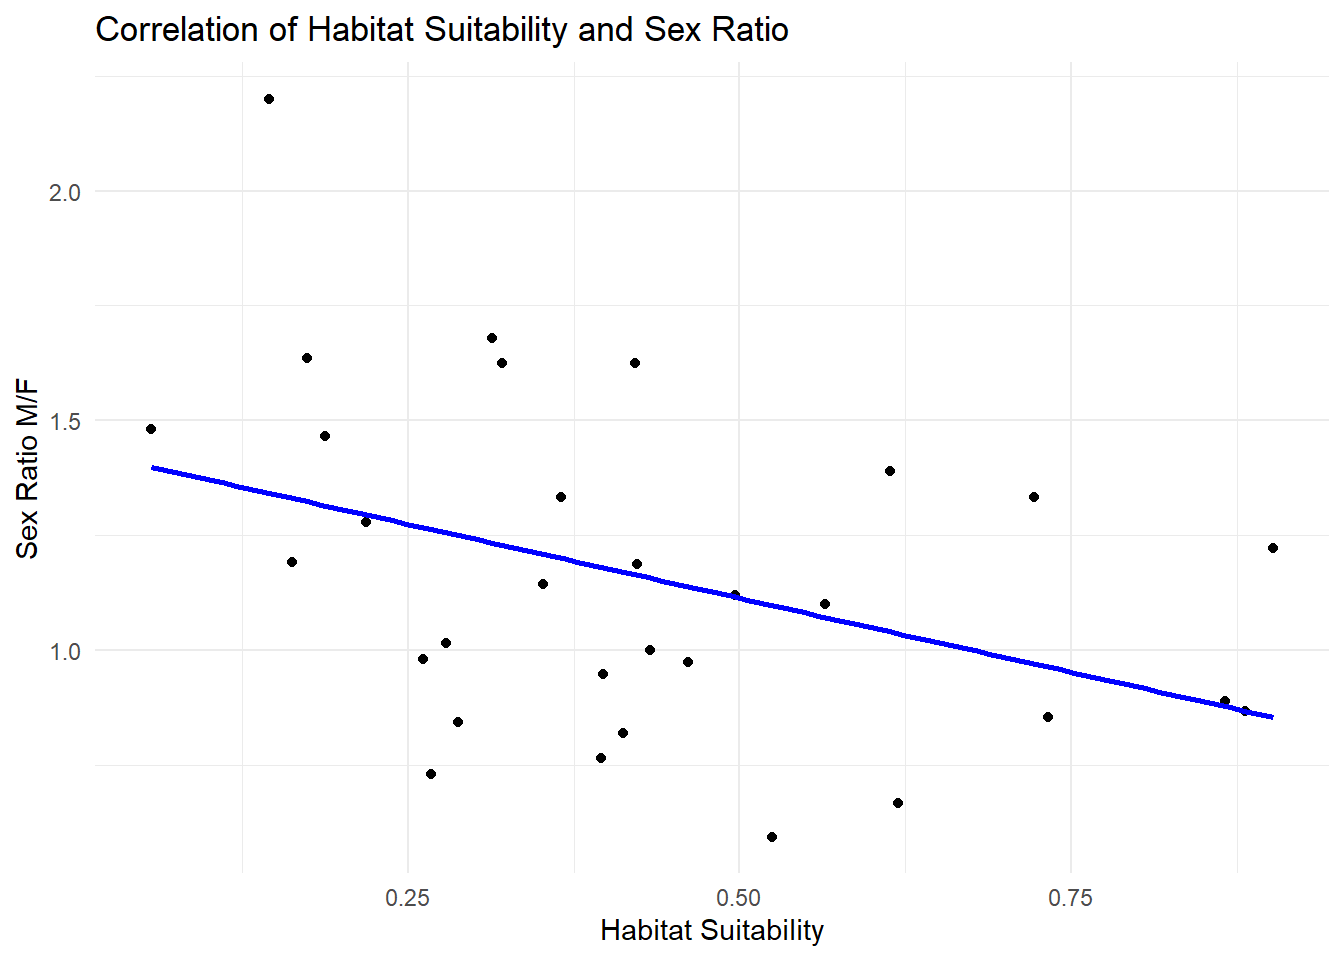
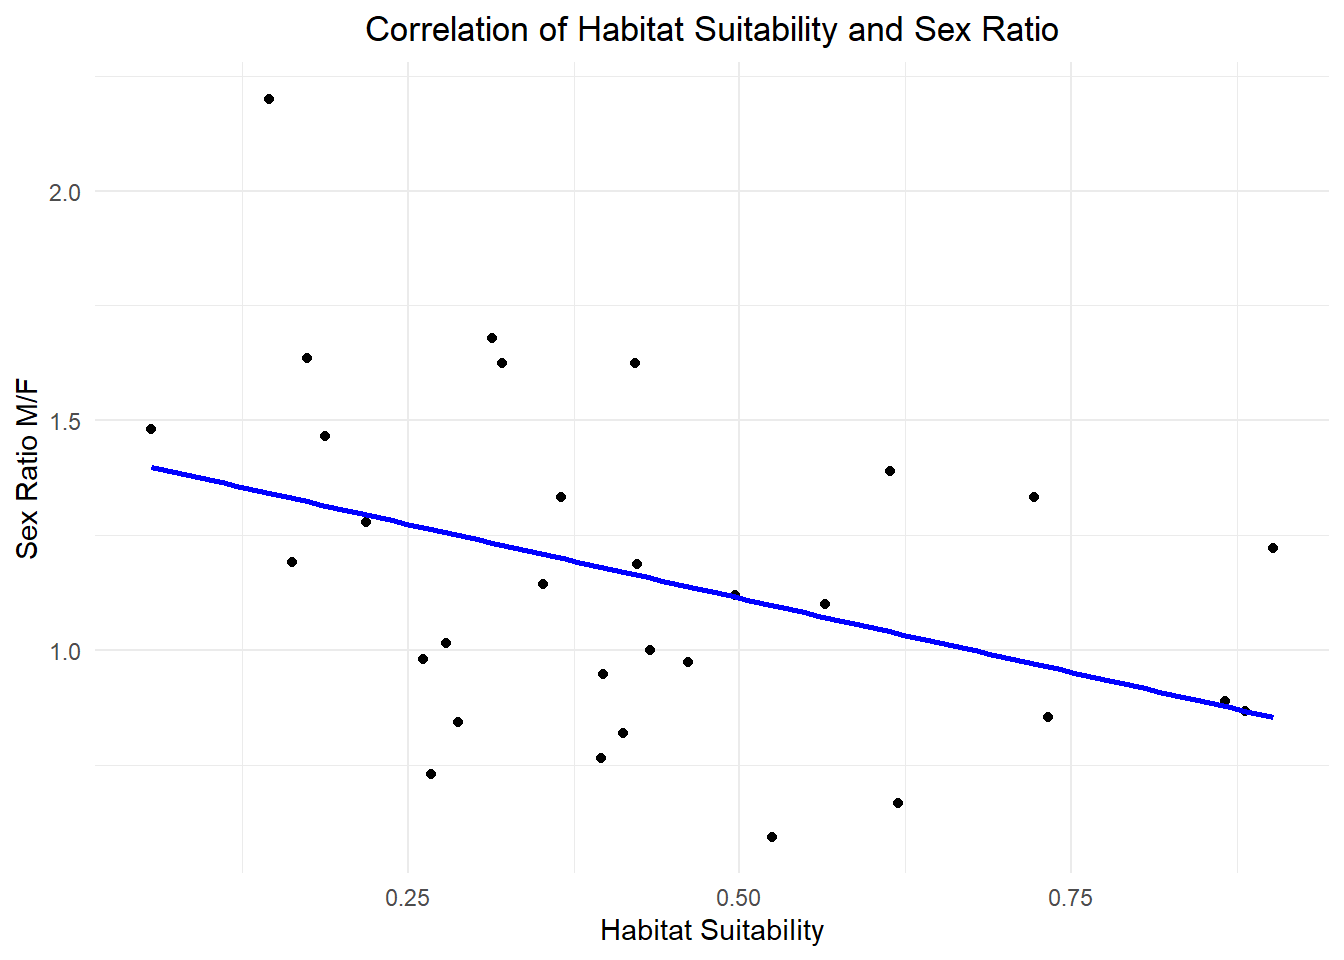
fixed

Changed region(s): [[0.0625, 0.0, 0.7812, 0.0625]]

diff --git a/docs/Markdown/SpatialPointsAssignment.html b/docs/Markdown/SpatialPointsAssignment.html
@@ -229,8 +229,8 @@ dbl (8): Males, Females, Suitability, MFRatio, GenVarArapat, GenVarEuphli, L...
 <span id="cb5-7"><a href="#cb5-7" aria-hidden="true" tabindex="-1"></a>  <span class="fu">addMarkers</span>( <span class="sc">~</span>Longitude, <span class="sc">~</span>Latitude, <span class="at">popup =</span> <span class="sc">~</span>Label ) <span class="sc">%&gt;%</span></span>
 <span id="cb5-8"><a href="#cb5-8" aria-hidden="true" tabindex="-1"></a>  <span class="fu">addProviderTiles</span>( <span class="st">"OpenTopoMap"</span> )</span></code><button title="Copy to Clipboard" class="code-copy-button"><i class="bi"></i></button></pre></div>
 <div class="cell-output-display">
-<div class="leaflet html-widget html-fill-item" id="htmlwidget-3cea015dfb251a80ebad" style="width:100%;height:464px;"></div>
-<script type="application/json" data-for="htmlwidget-3cea015dfb251a80ebad">{"x":{"options":{"crs":{"crsClass":"L.CRS.EPSG3857","code":null,"proj4def":null,"projectedBounds":null,"options":{}}},"calls":[{"method":"addMarkers","args":[[23.2855,24.00789,24.0195,24.13389,24.2115,24.21441,24.58843,24.87611,25.0247,25.34819,25.55757,25.60521,25.91409,26.0155,26.20876,26.63783,26.94589,27.0367,27.18232,27.2028,27.3632,27.40498,27.52944,28.03661,28.22308,28.40846,28.66056,28.72796,28.96651,29.01457,29.32541],[-110.10429,-109.85071,-110.096,-110.46236,-110.951,-110.27252,-110.74599,-110.69175,-111.675,-111.60056,-111.21563,-111.32638,-112.08062,-111.35475,-111.37833,-109.327,-112.04613,-112.986,-112.66552,-112.408,-112.964,-112.52959,-113.31609,-113.39991,-113.18263,-112.86985,-113.99141,-113.48973,-113.66787,-113.94486,-114.29353],null,null,null,{"interactive":true,"draggable":false,"keyboard":true,"title":"","alt":"","zIndexOffset":0,"opacity":1,"riseOnHover":false,"riseOffset":250},["<b>Site: Aqu","<b>Site: 73","<b>Site: 157","<b>Site: 153","<b>Site: 163","<b>Site: 48","<b>Site: 75","<b>Site: 77","<b>Site: const","<b>Site: 51","<b>Site: 168","<b>Site: 64","<b>Site: 166","<b>Site: 58","<b>Site: 169","<b>Site: 32","<b>Site: 93","<b>Site: 161","<b>Site: 12","<b>Site: 162","<b>Site: sfran","<b>Site: 160","<b>Site: 159","<b>Site: 89","<b>Site: 171","<b>Site: 173","<b>Site: 177","<b>Site: 175","<b>Site: 84","<b>Site: 9","<b>Site: 88"],null,null,null,null,{"interactive":false,"permanent":false,"direction":"auto","opacity":1,"offset":[0,0],"textsize":"10px","textOnly":false,"className":"","sticky":true},null]},{"method":"addProviderTiles","args":["OpenTopoMap",null,null,{"errorTileUrl":"","noWrap":false,"detectRetina":false}]}],"limits":{"lat":[23.2855,29.32541],"lng":[-114.29353,-109.327]}},"evals":[],"jsHooks":[]}</script>
+<div class="leaflet html-widget html-fill-item" id="htmlwidget-c5eca582b8e64137954f" style="width:100%;height:464px;"></div>
+<script type="application/json" data-for="htmlwidget-c5eca582b8e64137954f">{"x":{"options":{"crs":{"crsClass":"L.CRS.EPSG3857","code":null,"proj4def":null,"projectedBounds":null,"options":{}}},"calls":[{"method":"addMarkers","args":[[23.2855,24.00789,24.0195,24.13389,24.2115,24.21441,24.58843,24.87611,25.0247,25.34819,25.55757,25.60521,25.91409,26.0155,26.20876,26.63783,26.94589,27.0367,27.18232,27.2028,27.3632,27.40498,27.52944,28.03661,28.22308,28.40846,28.66056,28.72796,28.96651,29.01457,29.32541],[-110.10429,-109.85071,-110.096,-110.46236,-110.951,-110.27252,-110.74599,-110.69175,-111.675,-111.60056,-111.21563,-111.32638,-112.08062,-111.35475,-111.37833,-109.327,-112.04613,-112.986,-112.66552,-112.408,-112.964,-112.52959,-113.31609,-113.39991,-113.18263,-112.86985,-113.99141,-113.48973,-113.66787,-113.94486,-114.29353],null,null,null,{"interactive":true,"draggable":false,"keyboard":true,"title":"","alt":"","zIndexOffset":0,"opacity":1,"riseOnHover":false,"riseOffset":250},["<b>Site: Aqu","<b>Site: 73","<b>Site: 157","<b>Site: 153","<b>Site: 163","<b>Site: 48","<b>Site: 75","<b>Site: 77","<b>Site: const","<b>Site: 51","<b>Site: 168","<b>Site: 64","<b>Site: 166","<b>Site: 58","<b>Site: 169","<b>Site: 32","<b>Site: 93","<b>Site: 161","<b>Site: 12","<b>Site: 162","<b>Site: sfran","<b>Site: 160","<b>Site: 159","<b>Site: 89","<b>Site: 171","<b>Site: 173","<b>Site: 177","<b>Site: 175","<b>Site: 84","<b>Site: 9","<b>Site: 88"],null,null,null,null,{"interactive":false,"permanent":false,"direction":"auto","opacity":1,"offset":[0,0],"textsize":"10px","textOnly":false,"className":"","sticky":true},null]},{"method":"addProviderTiles","args":["OpenTopoMap",null,null,{"errorTileUrl":"","noWrap":false,"detectRetina":false}]}],"limits":{"lat":[23.2855,29.32541],"lng":[-114.29353,-109.327]}},"evals":[],"jsHooks":[]}</script>
 </div>
 </div>
 </section>
@@ -299,7 +299,8 @@ Geodetic CRS:  WGS 84
 <span id="cb12-8"><a href="#cb12-8" aria-hidden="true" tabindex="-1"></a>  <span class="fu">labs</span>( <span class="at">title =</span> <span class="st">"Correlation of Habitat Suitability and Sex Ratio"</span>,</span>
 <span id="cb12-9"><a href="#cb12-9" aria-hidden="true" tabindex="-1"></a>        <span class="at">x =</span> <span class="st">"Habitat Suitability"</span>,</span>
 <span id="cb12-10"><a href="#cb12-10" aria-hidden="true" tabindex="-1"></a>        <span class="at">y =</span> <span class="st">"Sex Ratio M/F"</span> ) <span class="sc">+</span></span>
-<span id="cb12-11"><a href="#cb12-11" aria-hidden="true" tabindex="-1"></a>  <span class="fu">theme_minimal</span>()</span></code><button title="Copy to Clipboard" class="code-copy-button"><i class="bi"></i></button></pre></div>
+<span id="cb12-11"><a href="#cb12-11" aria-hidden="true" tabindex="-1"></a>  <span class="fu">theme_minimal</span>() <span class="sc">+</span></span>
+<span id="cb12-12"><a href="#cb12-12" aria-hidden="true" tabindex="-1"></a>  <span class="fu">theme</span>( <span class="at">plot.title =</span> <span class="fu">element_text</span>( <span class="at">hjust =</span> <span class="fl">0.5</span> ) )</span></code><button title="Copy to Clipboard" class="code-copy-button"><i class="bi"></i></button></pre></div>
 <div class="cell-output cell-output-stderr">
 <pre><code>`geom_smooth()` using formula = 'y ~ x'</code></pre>
 </div>
@@ -310,36 +311,16 @@ Geodetic CRS:  WGS 84
 </figure>
 </div>
 </div>
-<div class="sourceCode cell-code" id="cb14"><pre class="sourceCode r code-with-copy"><code class="sourceCode r"><span id="cb14-1"><a href="#cb14-1" aria-hidden="true" tabindex="-1"></a>  <span class="fu">theme</span>( <span class="at">plot.title =</span> <span class="fu">element_text</span>( <span class="at">hjust =</span> <span class="fl">0.5</span> ) )</span></code><button title="Copy to Clipboard" class="code-copy-button"><i class="bi"></i></button></pre></div>
-<div class="cell-output cell-output-stdout">
-<pre><code>List of 1
- $ plot.title:List of 11
-  ..$ family       : NULL
-  ..$ face         : NULL
-  ..$ colour       : NULL
-  ..$ size         : NULL
-  ..$ hjust        : num 0.5
-  ..$ vjust        : NULL
-  ..$ angle        : NULL
-  ..$ lineheight   : NULL
-  ..$ margin       : NULL
-  ..$ debug        : NULL
-  ..$ inherit.blank: logi FALSE
-  ..- attr(*, "class")= chr [1:2] "element_text" "element"
- - attr(*, "class")= chr [1:2] "theme" "gg"
- - attr(*, "complete")= logi FALSE
- - attr(*, "validate")= logi TRUE</code></pre>
-</div>
 </div>
 <ol start="3" type="1">
 <li>Make a plot using <code>ggplot</code> of the data with suitability as the size of the points and the sex ratio as the fill color.</li>
 </ol>
 <div class="cell">
-<div class="sourceCode cell-code" id="cb16"><pre class="sourceCode r code-with-copy"><code class="sourceCode r"><span id="cb16-1"><a href="#cb16-1" aria-hidden="true" tabindex="-1"></a><span class="fu">library</span>(sf)</span>
-<span id="cb16-2"><a href="#cb16-2" aria-hidden="true" tabindex="-1"></a></span>
-<span id="cb16-3"><a href="#cb16-3" aria-hidden="true" tabindex="-1"></a><span class="fu">map_data</span>( <span class="st">"world"</span> ) <span class="sc">%&gt;%</span></span>
-<span id="cb16-4"><a href="#cb16-4" aria-hidden="true" tabindex="-1"></a>  <span class="fu">filter</span>( region <span class="sc">==</span> <span class="st">"Mexico"</span> ) <span class="ot">-&gt;</span> map</span>
-<span id="cb16-5"><a href="#cb16-5" aria-hidden="true" tabindex="-1"></a><span class="fu">head</span>( map )</span></code><button title="Copy to Clipboard" class="code-copy-button"><i class="bi"></i></button></pre></div>
+<div class="sourceCode cell-code" id="cb14"><pre class="sourceCode r code-with-copy"><code class="sourceCode r"><span id="cb14-1"><a href="#cb14-1" aria-hidden="true" tabindex="-1"></a><span class="fu">library</span>(sf)</span>
+<span id="cb14-2"><a href="#cb14-2" aria-hidden="true" tabindex="-1"></a></span>
+<span id="cb14-3"><a href="#cb14-3" aria-hidden="true" tabindex="-1"></a><span class="fu">map_data</span>( <span class="st">"world"</span> ) <span class="sc">%&gt;%</span></span>
+<span id="cb14-4"><a href="#cb14-4" aria-hidden="true" tabindex="-1"></a>  <span class="fu">filter</span>( region <span class="sc">==</span> <span class="st">"Mexico"</span> ) <span class="ot">-&gt;</span> map</span>
+<span id="cb14-5"><a href="#cb14-5" aria-hidden="true" tabindex="-1"></a><span class="fu">head</span>( map )</span></code><button title="Copy to Clipboard" class="code-copy-button"><i class="bi"></i></button></pre></div>
 <div class="cell-output cell-output-stdout">
 <pre><code>       long      lat group order region       subregion
 1 -91.68369 18.67734   970 60731 Mexico Isla del Carmen
@@ -349,17 +330,17 @@ Geodetic CRS:  WGS 84
 5 -91.55029 18.77368   970 60735 Mexico Isla del Carmen
 6 -91.53672 18.76001   970 60736 Mexico Isla del Carmen</code></pre>
 </div>
-<div class="sourceCode cell-code" id="cb18"><pre class="sourceCode r code-with-copy"><code class="sourceCode r"><span id="cb18-1"><a href="#cb18-1" aria-hidden="true" tabindex="-1"></a><span class="fu">ggplot</span>() <span class="sc">+</span></span>
-<span id="cb18-2"><a href="#cb18-2" aria-hidden="true" tabindex="-1"></a>  <span class="fu">geom_polygon</span>( <span class="fu">aes</span>( <span class="at">x =</span> long, <span class="at">y =</span> lat, <span class="at">group =</span> group ),</span>
-<span id="cb18-3"><a href="#cb18-3" aria-hidden="true" tabindex="-1"></a>                <span class="at">data =</span> map,</span>
-<span id="cb18-4"><a href="#cb18-4" aria-hidden="true" tabindex="-1"></a>                <span class="at">fill =</span> <span class="st">"darkgreen"</span> ) <span class="sc">+</span></span>
-<span id="cb18-5"><a href="#cb18-5" aria-hidden="true" tabindex="-1"></a>  <span class="fu">geom_sf</span>( <span class="at">data =</span> data,</span>
-<span id="cb18-6"><a href="#cb18-6" aria-hidden="true" tabindex="-1"></a>           <span class="fu">aes</span>( <span class="at">color =</span> Suitability, <span class="at">size =</span> MFRatio ) ) <span class="sc">+</span></span>
-<span id="cb18-7"><a href="#cb18-7" aria-hidden="true" tabindex="-1"></a>  <span class="fu">xlab</span>( <span class="st">"Longitude"</span> ) <span class="sc">+</span></span>
-<span id="cb18-8"><a href="#cb18-8" aria-hidden="true" tabindex="-1"></a>  <span class="fu">ylab</span>( <span class="st">"Latitude"</span> ) <span class="sc">+</span></span>
-<span id="cb18-9"><a href="#cb18-9" aria-hidden="true" tabindex="-1"></a>  <span class="fu">theme_bw</span>( <span class="at">base_size =</span> <span class="dv">12</span> ) <span class="sc">+</span></span>
-<span id="cb18-10"><a href="#cb18-10" aria-hidden="true" tabindex="-1"></a>  <span class="fu">coord_sf</span>( <span class="at">xlim =</span> <span class="fu">c</span>(<span class="sc">-</span><span class="dv">115</span>, <span class="sc">-</span><span class="dv">105</span>),</span>
-<span id="cb18-11"><a href="#cb18-11" aria-hidden="true" tabindex="-1"></a>            <span class="at">ylim =</span> <span class="fu">c</span>(<span class="dv">20</span>,<span class="dv">30</span>) )</span></code><button title="Copy to Clipboard" class="code-copy-button"><i class="bi"></i></button></pre></div>
+<div class="sourceCode cell-code" id="cb16"><pre class="sourceCode r code-with-copy"><code class="sourceCode r"><span id="cb16-1"><a href="#cb16-1" aria-hidden="true" tabindex="-1"></a><span class="fu">ggplot</span>() <span class="sc">+</span></span>
+<span id="cb16-2"><a href="#cb16-2" aria-hidden="true" tabindex="-1"></a>  <span class="fu">geom_polygon</span>( <span class="fu">aes</span>( <span class="at">x =</span> long, <span class="at">y =</span> lat, <span class="at">group =</span> group ),</span>
+<span id="cb16-3"><a href="#cb16-3" aria-hidden="true" tabindex="-1"></a>                <span class="at">data =</span> map,</span>
+<span id="cb16-4"><a href="#cb16-4" aria-hidden="true" tabindex="-1"></a>                <span class="at">fill =</span> <span class="st">"darkgreen"</span> ) <span class="sc">+</span></span>
+<span id="cb16-5"><a href="#cb16-5" aria-hidden="true" tabindex="-1"></a>  <span class="fu">geom_sf</span>( <span class="at">data =</span> data,</span>
+<span id="cb16-6"><a href="#cb16-6" aria-hidden="true" tabindex="-1"></a>           <span class="fu">aes</span>( <span class="at">color =</span> Suitability, <span class="at">size =</span> MFRatio ) ) <span class="sc">+</span></span>
+<span id="cb16-7"><a href="#cb16-7" aria-hidden="true" tabindex="-1"></a>  <span class="fu">xlab</span>( <span class="st">"Longitude"</span> ) <span class="sc">+</span></span>
+<span id="cb16-8"><a href="#cb16-8" aria-hidden="true" tabindex="-1"></a>  <span class="fu">ylab</span>( <span class="st">"Latitude"</span> ) <span class="sc">+</span></span>
+<span id="cb16-9"><a href="#cb16-9" aria-hidden="true" tabindex="-1"></a>  <span class="fu">theme_bw</span>( <span class="at">base_size =</span> <span class="dv">12</span> ) <span class="sc">+</span></span>
+<span id="cb16-10"><a href="#cb16-10" aria-hidden="true" tabindex="-1"></a>  <span class="fu">coord_sf</span>( <span class="at">xlim =</span> <span class="fu">c</span>(<span class="sc">-</span><span class="dv">115</span>, <span class="sc">-</span><span class="dv">105</span>),</span>
+<span id="cb16-11"><a href="#cb16-11" aria-hidden="true" tabindex="-1"></a>            <span class="at">ylim =</span> <span class="fu">c</span>(<span class="dv">20</span>,<span class="dv">30</span>) )</span></code><button title="Copy to Clipboard" class="code-copy-button"><i class="bi"></i></button></pre></div>
 <div class="cell-output-display">
 <div>
 <figure class="figure">
@@ -372,13 +353,13 @@ Geodetic CRS:  WGS 84
 <li>Reproject the data and plot it again using an EPSG code defined for Mexico UTM zone 12N (see <a href="https://epsg.io">epgs.io</a> for projections).</li>
 </ol>
 <div class="cell">
-<div class="sourceCode cell-code" id="cb19"><pre class="sourceCode r code-with-copy"><code class="sourceCode r"><span id="cb19-1"><a href="#cb19-1" aria-hidden="true" tabindex="-1"></a>data <span class="sc">%&gt;%</span></span>
-<span id="cb19-2"><a href="#cb19-2" aria-hidden="true" tabindex="-1"></a>  <span class="fu">st_as_sf</span>( <span class="at">coords=</span><span class="fu">c</span>( <span class="st">"Longitude"</span>,<span class="st">"Latitude"</span> ),</span>
-<span id="cb19-3"><a href="#cb19-3" aria-hidden="true" tabindex="-1"></a>            <span class="at">crs =</span> <span class="dv">4485</span> ) <span class="ot">-&gt;</span> newdata</span>
-<span id="cb19-4"><a href="#cb19-4" aria-hidden="true" tabindex="-1"></a></span>
-<span id="cb19-5"><a href="#cb19-5" aria-hidden="true" tabindex="-1"></a><span class="fu">map_data</span>( <span class="st">"world"</span> ) <span class="sc">%&gt;%</span></span>
-<span id="cb19-6"><a href="#cb19-6" aria-hidden="true" tabindex="-1"></a>  <span class="fu">filter</span>( region <span class="sc">==</span> <span class="st">"Mexico"</span> ) <span class="ot">-&gt;</span> newmap</span>
-<span id="cb19-7"><a href="#cb19-7" aria-hidden="true" tabindex="-1"></a><span class="fu">head</span>( map )</span></code><button title="Copy to Clipboard" class="code-copy-button"><i class="bi"></i></button></pre></div>
+<div class="sourceCode cell-code" id="cb17"><pre class="sourceCode r code-with-copy"><code class="sourceCode r"><span id="cb17-1"><a href="#cb17-1" aria-hidden="true" tabindex="-1"></a>data <span class="sc">%&gt;%</span></span>
+<span id="cb17-2"><a href="#cb17-2" aria-hidden="true" tabindex="-1"></a>  <span class="fu">st_as_sf</span>( <span class="at">coords=</span><span class="fu">c</span>( <span class="st">"Longitude"</span>,<span class="st">"Latitude"</span> ),</span>
+<span id="cb17-3"><a href="#cb17-3" aria-hidden="true" tabindex="-1"></a>            <span class="at">crs =</span> <span class="dv">4485</span> ) <span class="ot">-&gt;</span> newdata</span>
+<span id="cb17-4"><a href="#cb17-4" aria-hidden="true" tabindex="-1"></a></span>
+<span id="cb17-5"><a href="#cb17-5" aria-hidden="true" tabindex="-1"></a><span class="fu">map_data</span>( <span class="st">"world"</span> ) <span class="sc">%&gt;%</span></span>
+<span id="cb17-6"><a href="#cb17-6" aria-hidden="true" tabindex="-1"></a>  <span class="fu">filter</span>( region <span class="sc">==</span> <span class="st">"Mexico"</span> ) <span class="ot">-&gt;</span> newmap</span>
+<span id="cb17-7"><a href="#cb17-7" aria-hidden="true" tabindex="-1"></a><span class="fu">head</span>( map )</span></code><button title="Copy to Clipboard" class="code-copy-button"><i class="bi"></i></button></pre></div>
 <div class="cell-output cell-output-stdout">
 <pre><code>       long      lat group order region       subregion
 1 -91.68369 18.67734   970 60731 Mexico Isla del Carmen
@@ -388,17 +369,17 @@ Geodetic CRS:  WGS 84
 5 -91.55029 18.77368   970 60735 Mexico Isla del Carmen
 6 -91.53672 18.76001   970 60736 Mexico Isla del Carmen</code></pre>
 </div>
-<div class="sourceCode cell-code" id="cb21"><pre class="sourceCode r code-with-copy"><code class="sourceCode r"><span id="cb21-1"><a href="#cb21-1" aria-hidden="true" tabindex="-1"></a><span class="fu">ggplot</span>() <span class="sc">+</span></span>
-<span id="cb21-2"><a href="#cb21-2" aria-hidden="true" tabindex="-1"></a>  <span class="fu">geom_polygon</span>( <span class="fu">aes</span>( <span class="at">x =</span> long, <span class="at">y =</span> lat, <span class="at">group =</span> group ),</span>
-<span id="cb21-3"><a href="#cb21-3" aria-hidden="true" tabindex="-1"></a>                <span class="at">data =</span> map,</span>
-<span id="cb21-4"><a href="#cb21-4" aria-hidden="true" tabindex="-1"></a>                <span class="at">fill =</span> <span class="st">"green"</span> ) <span class="sc">+</span></span>
-<span id="cb21-5"><a href="#cb21-5" aria-hidden="true" tabindex="-1"></a>  <span class="fu">geom_sf</span>( <span class="at">data =</span> newdata,</span>
-<span id="cb21-6"><a href="#cb21-6" aria-hidden="true" tabindex="-1"></a>           <span class="fu">aes</span>( <span class="at">color =</span> Suitability, <span class="at">size =</span> MFRatio ) ) <span class="sc">+</span></span>
-<span id="cb21-7"><a href="#cb21-7" aria-hidden="true" tabindex="-1"></a>  <span class="fu">xlab</span>( <span class="st">"Longitude"</span> ) <span class="sc">+</span></span>
-<span id="cb21-8"><a href="#cb21-8" aria-hidden="true" tabindex="-1"></a>  <span class="fu">ylab</span>( <span class="st">"Latitude"</span> ) <span class="sc">+</span></span>
-<span id="cb21-9"><a href="#cb21-9" aria-hidden="true" tabindex="-1"></a>  <span class="fu">theme_bw</span>( <span class="at">base_size =</span> <span class="dv">12</span> ) <span class="sc">+</span></span>
-<span id="cb21-10"><a href="#cb21-10" aria-hidden="true" tabindex="-1"></a>  <span class="fu">coord_sf</span>( <span class="at">xlim =</span> <span class="fu">c</span>(<span class="sc">-</span><span class="dv">115</span>, <span class="sc">-</span><span class="dv">105</span>),</span>
-<span id="cb21-11"><a href="#cb21-11" aria-hidden="true" tabindex="-1"></a>            <span class="at">ylim =</span> <span class="fu">c</span>(<span class="dv">20</span>,<span class="dv">30</span>) )</span></code><button title="Copy to Clipboard" class="code-copy-button"><i class="bi"></i></button></pre></div>
+<div class="sourceCode cell-code" id="cb19"><pre class="sourceCode r code-with-copy"><code class="sourceCode r"><span id="cb19-1"><a href="#cb19-1" aria-hidden="true" tabindex="-1"></a><span class="fu">ggplot</span>() <span class="sc">+</span></span>
+<span id="cb19-2"><a href="#cb19-2" aria-hidden="true" tabindex="-1"></a>  <span class="fu">geom_polygon</span>( <span class="fu">aes</span>( <span class="at">x =</span> long, <span class="at">y =</span> lat, <span class="at">group =</span> group ),</span>
+<span id="cb19-3"><a href="#cb19-3" aria-hidden="true" tabindex="-1"></a>                <span class="at">data =</span> map,</span>
+<span id="cb19-4"><a href="#cb19-4" aria-hidden="true" tabindex="-1"></a>                <span class="at">fill =</span> <span class="st">"green"</span> ) <span class="sc">+</span></span>
+<span id="cb19-5"><a href="#cb19-5" aria-hidden="true" tabindex="-1"></a>  <span class="fu">geom_sf</span>( <span class="at">data =</span> newdata,</span>
+<span id="cb19-6"><a href="#cb19-6" aria-hidden="true" tabindex="-1"></a>           <span class="fu">aes</span>( <span class="at">color =</span> Suitability, <span class="at">size =</span> MFRatio ) ) <span class="sc">+</span></span>
+<span id="cb19-7"><a href="#cb19-7" aria-hidden="true" tabindex="-1"></a>  <span class="fu">xlab</span>( <span class="st">"Longitude"</span> ) <span class="sc">+</span></span>
+<span id="cb19-8"><a href="#cb19-8" aria-hidden="true" tabindex="-1"></a>  <span class="fu">ylab</span>( <span class="st">"Latitude"</span> ) <span class="sc">+</span></span>
+<span id="cb19-9"><a href="#cb19-9" aria-hidden="true" tabindex="-1"></a>  <span class="fu">theme_bw</span>( <span class="at">base_size =</span> <span class="dv">12</span> ) <span class="sc">+</span></span>
+<span id="cb19-10"><a href="#cb19-10" aria-hidden="true" tabindex="-1"></a>  <span class="fu">coord_sf</span>( <span class="at">xlim =</span> <span class="fu">c</span>(<span class="sc">-</span><span class="dv">115</span>, <span class="sc">-</span><span class="dv">105</span>),</span>
+<span id="cb19-11"><a href="#cb19-11" aria-hidden="true" tabindex="-1"></a>            <span class="at">ylim =</span> <span class="fu">c</span>(<span class="dv">20</span>,<span class="dv">30</span>) )</span></code><button title="Copy to Clipboard" class="code-copy-button"><i class="bi"></i></button></pre></div>
 <div class="cell-output-display">
 <div>
 <figure class="figure">
